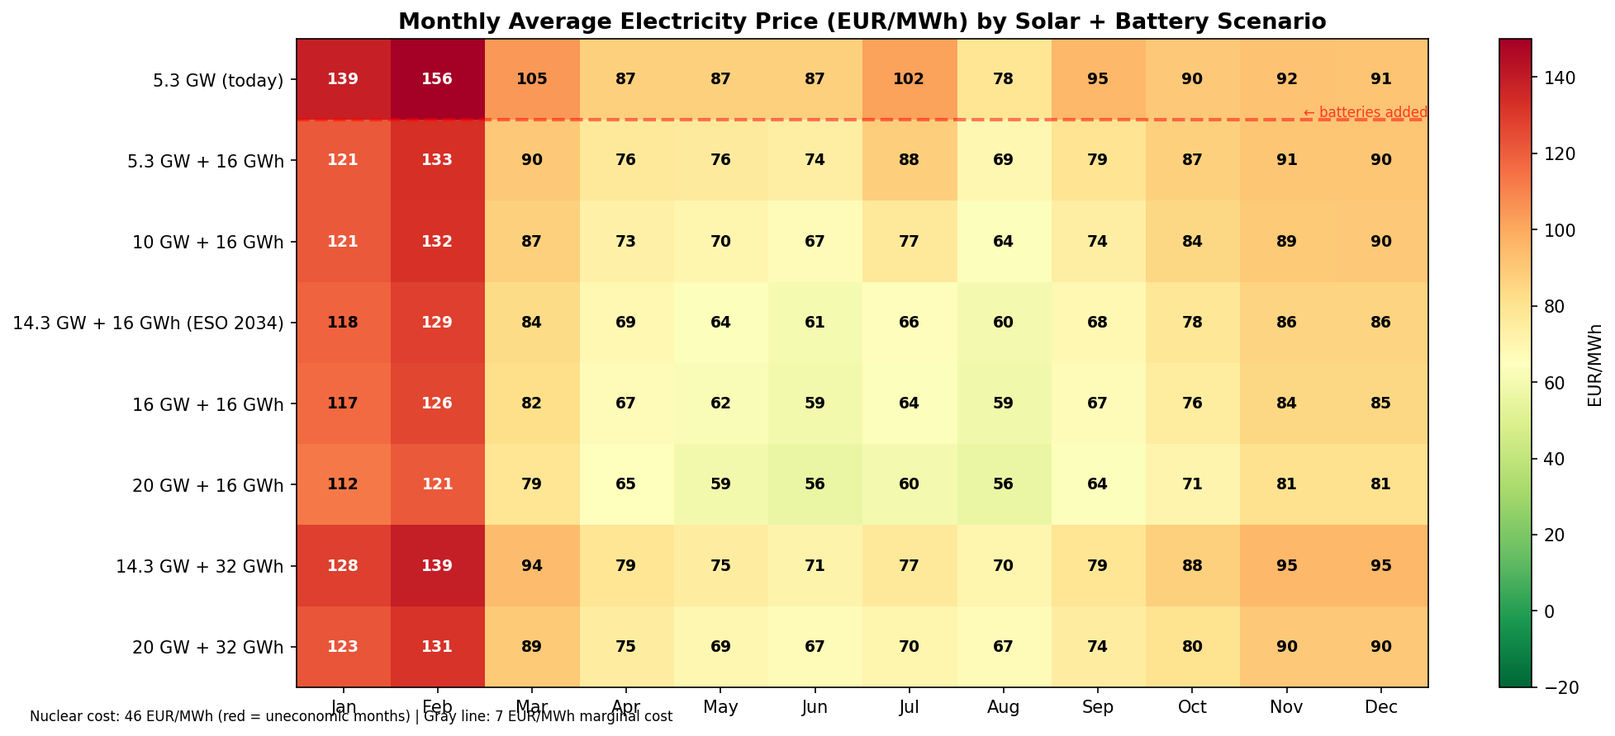
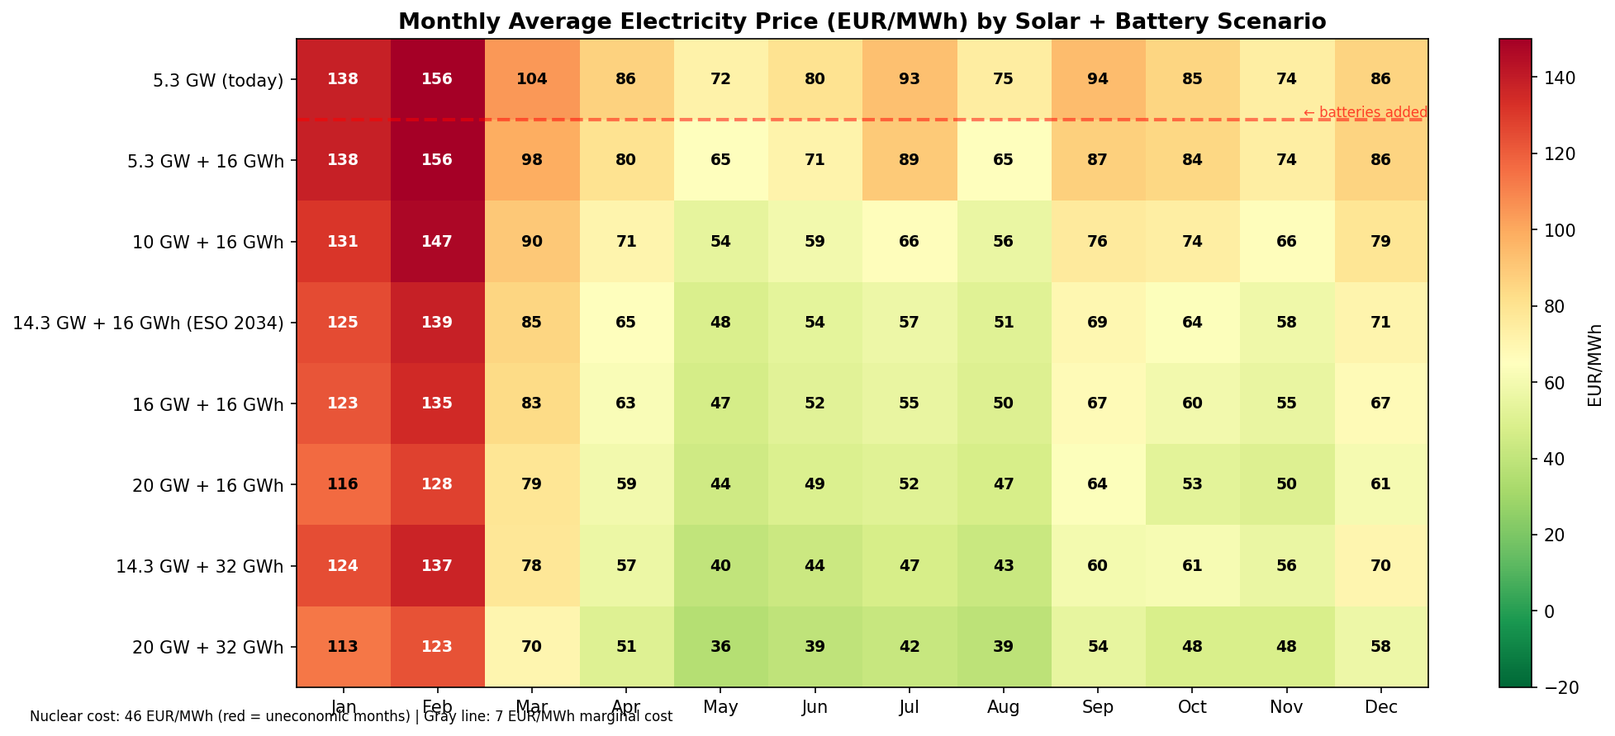
Move winter/Feb15 section to just before the two closing paragraphs

diff --git a/nuclear_article.md b/nuclear_article.md
@@ -1,6 +1,6 @@
 # Бавно, но неизбежно: Икономическата смърт на ядрената енергетика в България
 
-Атомната електроцентрала прилича на фабрика с огромен наем и почти никакви разходи за суровини. Независимо дали АЕЦ Козлодуй произвежда един мегаватчас или шестнадесет милиарда, тя пак плаща същите заплати на хилядите си служители, същите сметки за поддръжка, същите вноски за извеждане от експлоатация и същата амортизация на инвестициите в удължаване на живота си. Самото гориво — уранът — е изненадващо евтино: само няколко евро на мегаватчас.
+Атомната електроцентрала прилича на фабрика с огромен наем и почти никакви разходи за суровини. Независимо дали АЕЦ Козлодуй произвежда един мегаватчас или шестнадесет милиона, тя пак плаща същите заплати на хилядите си служители, същите сметки за поддръжка, същите вноски за извеждане от експлоатация и същата амортизация на инвестициите в удължаване на живота си. Самото гориво — уранът — е изненадващо евтино: само няколко евро на мегаватчас.
 
 Тази структура на разходите създава проста, но безпощадна икономическа правило: ядрената енергия работи само ако централата работи **много**. В бранша това се измерва с **коефициент на използване (КИ)** — какъв процент от теоретичния максимум реално се произвежда. При КИ 90% огромните постоянни разходи се разпределят върху много електроенергия и себестойността на единица е приемлива. При КИ 50% същите разходи се разпределят върху половината продукция, което приблизително удвоява цената на единица. Математиката е неумолима.
 
@@ -38,21 +38,20 @@
 
 При прогнозираните от ЕСО 14,3 ГВт слънчева мощност и 16 ГВтч батерии шест месеца в годината (от април до септември) имат средни цени под оперативната себестойност на АЕЦ от 46 EUR/MWh. Юни и август падат до 28–29 EUR/MWh. При 32 ГВтч батерии (които пазарът неизбежно ще изгради с нарастването на арбитражната възможност) юни пада до 15 EUR/MWh. Зимните месеци се задържат над 70 EUR/MWh, но лятното сриване дърпа годишната средна до 53 EUR/MWh — само 7 EUR/MWh над себестойността на АЕЦ.
 
+![Сравнение на стратегии](charts/strategy_comparison.png)
+
+
+При 20 ГВт слънчева и 32 ГВтч батерии ядрената енергетика навлиза в зоната на трайна загуба. Никоя оперативна стратегия — пълна мощност, намалена мощност, спрян реактор — не носи печалба. Загубата достига 73–105 млн. EUR в зависимост от стратегията. Дори при 20 ГВт само с 16 ГВтч батерии маржът е на ръба: +63 млн. EUR при пълна мощност, но отрицателен при спиране на един реактор за лятото.
+
+**Това е смъртна спирала — и България вече я навлиза.**
+
+Моделът е добре документиран на всеки пазар, където ВЕИ са достигнали критична маса. Слънчевата и вятърната мощност нарастват, пазарните цени падат. Приходите намаляват, а постоянните разходи остават същите. Все повече часове се сриват до нула, докато слънчевата залива мрежата. Батериите изравняват оставащия пик. Централата спира за по-дълги периоди. Производството пада, себестойността на единица расте. Регионалните ВЕИ ерозират дори зимните маржове. Износните пазари се затварят, докато съседите изграждат собствен капацитет. И тогава идва политическият избор: субсидии или затваряне.
+
+Проблемите с надеждността и слънчевия натиск се подхранват взаимно. Всяко непланирано спиране вдига разходите, а всеки ГВт слънчева мощност свива приходите. Маржът се стеснява от двете страни.
+
 **Батериите не просто прехвърлят енергия — те трайно унищожават пиковата премия.**
 
 В слънчеви дни цените падат по обяд, но се възстановяват вечер — АЕЦ продава евтино по пладне, но печели от пика. При 16 ГВтч батерии, заряждани от безплатна слънчева и разреждани вечер, тези пикови часове се таванират при пълната себестойност на въглищата (88 EUR/MWh). При 32 ГВтч батериите покриват по-голямата част от нощта, сривайки цените до цената им на цикъл (~15 EUR/MWh). Ценовата разлика се трансформира от времеви арбитраж (купи евтино по обяд, продай скъпо вечер) в технологичен арбитраж: батериите печелят от разликата в разходите между слънчевата (~0 EUR/MWh) и въглищата (~88 EUR/MWh). АЕЦ, захваната между тях, не може да продава нито от едната, нито от другата страна на тази нова разлика.
-
-**Традиционният бастион на АЕЦ е зимата. Дори той се рони.**
-
-Гръцкият и румънският вятър се конкурират пряко с българската атомна енергия през зимните месеци. В ветровити зимни дни регионалните цени са изправени пред същия натиск на свръхпредлагане, какъвто слънчевата енергия създава лятото. „Безопасният" сезон за продажби на АЕЦ се свива от двата края — слънчевата поглъща преходните месеци и лятото, регионалният вятър навлиза в зимата.
-
-**На 15 февруари 2026 г. България отчете цени близо до нула за почти целия ден — и то зимата.**
-
-![15 февруари 2026: Цени БГ](charts/feb15_2026_prices.png)
-
-България средно отчете 12,3 EUR/MWh за деня. Междувременно капацитетът на интерконекторите към съседните страни беше напълно изчерпан — България не можеше да изнесе излишъка си на никаква цена. Причината: 3 200 МВт задължително производство (АЕЦ 1 904 + лигнит ~1 100 + газова КТЦ ~310) срещу ~3 800 МВт търсене, с едва 300–470 МВт вятър отгоре.
-
-Това се случи при минимални ВЕИ. Мрежата се срина в излишък заради негъвкавостта на АЕЦ и въглищата. За сравнение: в Гърция същия ден имаше 3 400 МВт вятър, а цените се задържаха на 38–142 EUR/MWh. Гърция разполага с гъвкав газов парк, който намалява мощността, когато ВЕИ нарастват. България — не.
 
 **Износният пазар, който някога поглъщаше излишъка на България, вече го няма — а самата централа е под натиск отвътре.**
 
@@ -66,15 +65,19 @@
 
 Спирането на реактор за лятото не помага — намалява приходите повече, отколкото пести от променливите разходи, защото пределната цена на производство (7 EUR/MWh) е далеч под дори потиснатите летни цени. Всяка стратегия за ограничаване носи по-малко от работата на пълна мощност.
 
-![Сравнение на стратегии](charts/strategy_comparison.png)
 
-При 20 ГВт слънчева и 32 ГВтч батерии ядрената енергетика навлиза в зоната на трайна загуба. Никоя оперативна стратегия — пълна мощност, намалена мощност, спрян реактор — не носи печалба. Загубата достига 73–105 млн. EUR в зависимост от стратегията. Дори при 20 ГВт само с 16 ГВтч батерии маржът е на ръба: +63 млн. EUR при пълна мощност, но отрицателен при спиране на един реактор за лятото.
+**Традиционният бастион на АЕЦ е зимата. Дори той се рони.**
 
-**Това е смъртна спирала — и България вече я навлиза.**
+Гръцкият и румънският вятър се конкурират пряко с българската атомна енергия през зимните месеци. В ветровити зимни дни регионалните цени са изправени пред същия натиск на свръхпредлагане, какъвто слънчевата енергия създава лятото. „Безопасният" сезон за продажби на АЕЦ се свива от двата края — слънчевата поглъща преходните месеци и лятото, регионалният вятър навлиза в зимата.
 
-Моделът е добре документиран на всеки пазар, където ВЕИ са достигнали критична маса. Слънчевата и вятърната мощност нарастват, пазарните цени падат. Приходите намаляват, а постоянните разходи остават същите. Все повече часове се сриват до нула, докато слънчевата залива мрежата. Батериите изравняват оставащия пик. Централата спира за по-дълги периоди. Производството пада, себестойността на единица расте. Регионалните ВЕИ ерозират дори зимните маржове. Износните пазари се затварят, докато съседите изграждат собствен капацитет. И тогава идва политическият избор: субсидии или затваряне.
+**На 15 февруари 2026 г. България отчете цени близо до нула за почти целия ден — и то зимата.**
 
-Проблемите с надеждността и слънчевия натиск се подхранват взаимно. Всяко непланирано спиране вдига разходите, а всеки ГВт слънчева мощност свива приходите. Маржът се стеснява от двете страни.
+![15 февруари 2026: Цени БГ](charts/feb15_2026_prices.png)
+
+България средно отчете 12,3 EUR/MWh за деня. Междувременно капацитетът на интерконекторите към съседните страни беше напълно изчерпан — България не можеше да изнесе излишъка си на никаква цена. Причината: 3 200 МВт задължително производство (АЕЦ 1 904 + лигнит ~1 100 + газова КТЦ ~310) срещу ~3 800 МВт търсене, с едва 300–470 МВт вятър отгоре.
+
+Това се случи при минимални ВЕИ. Мрежата се срина в излишък заради негъвкавостта на АЕЦ и въглищата. За сравнение: в Гърция същия ден имаше 3 400 МВт вятър, а цените се задържаха на 38–142 EUR/MWh. Гърция разполага с гъвкав газов парк, който намалява мощността, когато ВЕИ нарастват. България — не.
+
 
 **На този фон България преследва планове за изграждане на още два реактора.**
 
@@ -92,7 +95,7 @@
 
 **АЕЦ Козлодуй не е в непосредствена опасност. Но траекторията е недвусмислена.**
 
-Днес, при 5,3 ГВт слънчева и без батерии, средната пазарна цена е 101 EUR/MWh и АЕЦ печели комфортните 1 007 млн. EUR. Добавете 16 ГВтч батерии — без никаква нова слънчева — и тази печалба се преполовява до 518 млн. EUR, тъй като батериите таванират вечерния пик. При 10 ГВт слънчева с батерии печалбата пада до 308 млн. EUR. При прогнозираните от ЕСО 14,3 ГВт с 16 ГВтч батерии печалбата се свива до 182 млн. EUR — комфортно на хартия, но марж от 25% върху база от разходи 735 млн. EUR не оставя пространство за грешка. При 32 ГВтч батерии АЕЦ едва излиза на нула с 82 млн. EUR. При 20 ГВт + 32 ГВтч навлиза в трайна загуба.
+Днес, при 5,8 ГВт слънчева и без батерии, средната пазарна цена е 101 EUR/MWh и АЕЦ печели комфортните 1 007 млн. EUR. Добавете 16 ГВтч батерии — без никаква нова слънчева — и тази печалба се преполовява до 518 млн. EUR, тъй като батериите таванират вечерния пик. При 10 ГВт слънчева с батерии печалбата пада до 308 млн. EUR. При прогнозираните от ЕСО 14,3 ГВт с 16 ГВтч батерии печалбата се свива до 182 млн. EUR — комфортно на хартия, но марж от 25% върху база от разходи 735 млн. EUR не оставя пространство за грешка. При 32 ГВтч батерии АЕЦ едва излиза на нула с 82 млн. EUR. При 20 ГВт + 32 ГВтч навлиза в трайна загуба.
 
 Силите, движещи това — внедряване на слънчева енергия, акумулаторно съхранение, регионален вятър, насищане на износните пазари — се ускоряват. Нито една от тях не е обратима. Нито една не може да бъде спряна. Дори ако България замрази цялото вътрешно строителство на ВЕИ утре, гръцките вятърни паркове, румънските слънчеви паркове и турските допълнителни мощности ще продължат да потискат регионалните цени на електроенергията. Балканският енергиен пазар се интегрира. България не може да се огради от слънчево-вятърното цунами, заливащо Югоизточна Европа. Електричеството ще тече през интерконекторите, цените ще се изравнят и икономиката на негъвкавото базово производство ще продължи да се влошава.
 

diff --git a/analysis_tables.md b/analysis_tables.md
@@ -4,34 +4,39 @@ Supporting data for the nuclear economics article. All modeled on 2025 ENTSOE ho
 
 ## Price Compression Model
 
-Supply-demand balance model using 2025 actual market data:
+Merit-order model using 2025 actual market data:
 - Solar generation scaled from 5.3 GW baseline
-- Coal displaced first by extra solar before merit order compression
 - Merit order slope: 0.018 EUR/MWh per MW (2025 regression, R²=0.29)
+- Solar curtailment: prices floor at 0 EUR/MWh (operators curtail solar at negative prices)
+- Battery effect: daily energy-balance dispatch — batteries charge from zero-price solar hours, discharge into highest-price hours. When battery energy covers the full non-solar gap, prices drop to battery cycling cost (~15 EUR/MWh). Remaining hours capped at coal full cost (88 EUR/MWh).
 - Export capacity: ~2,800 MW total interconnector
-- Battery effect: structural peak cap at coal full cost (88 EUR/MWh) for 16+ GWh
+- 2025 caveat: Unit 6 offline May-Aug → prices ~10% higher than normal. All numbers are conservative.
 
 ### Monthly Average Prices (EUR/MWh) by Scenario
 
 | Scenario | Jan | Feb | Mar | Apr | May | Jun | Jul | Aug | Sep | Oct | Nov | Dec | Year |
 |---|---:|---:|---:|---:|---:|---:|---:|---:|---:|---:|---:|---:|---:|
-| 5.3 GW (today) | 134 | 150 | 95 | 73 | 78 | 68 | 83 | 64 | 81 | 81 | 90 | 89 | 90 |
-| 5.3 GW + 16 GWh | 84 | 86 | 66 | 58 | 60 | 52 | 63 | 56 | 59 | 74 | 84 | 83 | 69 |
-| 10 GW + 16 GWh | 78 | 79 | 59 | 50 | 50 | 39 | 46 | 44 | 49 | 65 | 78 | 76 | 59 |
-| **14.3 GW + 16 GWh** | **73** | **72** | **49** | **37** | **38** | **19** | **20** | **27** | **33** | **55** | **72** | **70** | **47** |
-| 16 GW + 16 GWh | 71 | 68 | 44 | 32 | 32 | 10 | 9 | 20 | 25 | 50 | 70 | 67 | 42 |
-| 20 GW + 16 GWh | 65 | 60 | 31 | 18 | 18 | -13 | -17 | 2 | 7 | 39 | 63 | 60 | 28 |
+| 5.3 GW (today, no batt.) | 139 | 156 | 105 | 87 | 87 | 87 | 102 | 78 | 95 | 90 | 92 | 91 | 101 |
+| 5.3 GW + 16 GWh | 86 | 87 | 71 | 57 | 60 | 58 | 76 | 57 | 63 | 82 | 85 | 85 | 72 |
+| 10 GW + 16 GWh | 84 | 85 | 58 | 47 | 47 | 35 | 53 | 35 | 43 | 75 | 80 | 80 | 60 |
+| **14.3 GW + 16 GWh** | **82** | **82** | **55** | **40** | **38** | **28** | **38** | **29** | **35** | **64** | **73** | **73** | **53** |
+| 16 GW + 16 GWh | 80 | 80 | 53 | 38 | 36 | 27 | 36 | 27 | 33 | 58 | 70 | 71 | 51 |
+| 20 GW + 16 GWh | 77 | 76 | 50 | 36 | 32 | 24 | 32 | 24 | 29 | 48 | 63 | 62 | 46 |
+| 14.3 GW + 32 GWh | 81 | 81 | 49 | 31 | 33 | 15 | 23 | 16 | 26 | 64 | 73 | 73 | 47 |
+| 20 GW + 32 GWh | 75 | 73 | 41 | 25 | 23 | 10 | 15 | 12 | 19 | 45 | 62 | 60 | 38 |
 
-### Hours Below Key Thresholds
+### Months Below Nuclear Average Cost (46 EUR/MWh)
 
-| Scenario | Hours <0 EUR | Hours <7 EUR | Hours <46 EUR | Uneconomic months |
-|---|---:|---:|---:|---|
-| 5.3 GW (today) | 112 | 454 | 1,893 | — |
-| 5.3 GW + 16 GWh | 14 | 179 | 1,399 | — |
-| 10 GW + 16 GWh | 210 | 644 | 2,253 | Jun, Jul, Aug |
-| **14.3 GW + 16 GWh** | **1,008** | **1,385** | **3,109** | **Apr–Sep** |
-| 16 GW + 16 GWh | 1,270 | 1,623 | 3,376 | Mar–Sep |
-| 20 GW + 16 GWh | 1,784 | 2,062 | 3,921 | Mar–Oct |
+| Scenario | Uneconomic months |
+|---|---|
+| 5.3 GW (today) | — |
+| 5.3 GW + 16 GWh | — |
+| 10 GW + 16 GWh | Jun, Aug |
+| **14.3 GW + 16 GWh** | **Apr–Sep** |
+| 16 GW + 16 GWh | Apr–Sep |
+| 20 GW + 16 GWh | Apr–Sep |
+| 14.3 GW + 32 GWh | Apr–Sep |
+| 20 GW + 32 GWh | Mar–Sep |
 
 ## Nuclear Annual P&L by Operating Strategy
 
@@ -41,59 +46,39 @@ Fixed cost: 617 M EUR/year. Variable cost: 6.8 EUR/MWh. Total OPEX: 723 M EUR/ye
 
 | Strategy | Revenue (M€) | Cost (M€) | Profit (M€) | CF | Rev/MWh |
 |---|---:|---:|---:|---:|---:|
-| 2×1000 MW all year | 816 | 735 | +82 | 99% | 47.2 |
-| Reduced 1400 MW Jun-Aug | 774 | 730 | +44 | 90% | 49.4 |
-| Reduced 1400 MW May-Sep | 747 | 727 | +20 | 85% | 50.4 |
-| 1 reactor off Jun-Aug | 735 | 724 | +11 | 87% | 48.5 |
-| 1 reactor off May-Sep | 691 | 719 | -28 | 79% | 50.2 |
-| Combo (1 off Jun-Aug, reduced shoulder) | 718 | 723 | -5 | 84% | 49.0 |
+| 2×1000 MW all year | 916 | 735 | +182 | 99% | 52.9 |
+| Reduced 1400 MW Jun-Aug | 876 | 726 | +150 | 90% | 54.7 |
+| Reduced 1400 MW May-Sep | 844 | 720 | +124 | 85% | 55.7 |
+| 1 reactor off Jun-Aug | 848 | 720 | +128 | 87% | 56.0 |
+| 1 reactor off May-Sep | 796 | 710 | +86 | 79% | 58.0 |
+| Combo (1 off Jun-Aug, reduced shoulder) | 800 | 711 | +89 | 84% | 57.7 |
 
-### 16 GW Solar + 16 GWh Batteries
+### 14.3 GW Solar + 32 GWh Batteries
 
 | Strategy | Revenue (M€) | Cost (M€) | Profit (M€) | CF | Rev/MWh |
 |---|---:|---:|---:|---:|---:|
-| 2×1000 MW all year | 721 | 735 | -14 | 99% | 41.6 |
-| Reduced 1400 MW Jun-Aug | 688 | 730 | -42 | 90% | 43.8 |
-| 1 reactor off Jun-Aug | 660 | 724 | -64 | 87% | 43.6 |
-| 1 reactor off May-Sep | 623 | 719 | -96 | 79% | 45.2 |
+| 2×1000 MW all year | 816 | 735 | +82 | 99% | 47.1 |
+| Reduced 1400 MW Jun-Aug | 786 | 726 | +60 | 90% | 49.1 |
+| 1 reactor off Jun-Aug | 767 | 720 | +47 | 87% | 50.6 |
+| 1 reactor off May-Sep | 721 | 710 | +11 | 79% | 52.6 |
 
 ### 20 GW Solar + 16 GWh Batteries
 
 | Strategy | Revenue (M€) | Cost (M€) | Profit (M€) | CF | Rev/MWh |
 |---|---:|---:|---:|---:|---:|
-| 2×1000 MW all year | 482 | 735 | -253 | 99% | 27.8 |
-| 1 reactor off Jun-Aug | 502 | 720 | -218 | 87% | 33.1 |
-| 1 reactor off Apr-Sep | 468 | 706 | -238 | 75% | 35.8 |
+| 2×1000 MW all year | 797 | 735 | +63 | 99% | 46.1 |
+| Reduced 1400 MW Jun-Aug | 763 | 726 | +37 | 90% | 47.6 |
+| 1 reactor off Jun-Aug | 740 | 720 | +20 | 87% | 48.8 |
+| 1 reactor off May-Sep | 696 | 710 | -15 | 79% | 50.7 |
 
-## Weekend Summer Day Profile (Jun-Aug average)
+### 20 GW Solar + 32 GWh Batteries
 
-Average hourly price on weekend summer days (EUR/MWh):
-
-| Hour | 5.3 GW | 10 GW | 14.3 GW | 20 GW |
-|---:|---:|---:|---:|---:|
-| 0 | 85 | 85 | 85 | 85 |
-| 4 | 52 | 33 | 19 | 12 |
-| 6 | 13 | -6 | -48 | -114 |
-| 8 | 4 | -11 | -46 | -115 |
-| 10 | 4 | -2 | -19 | -72 |
-| 12 | 2 | 1 | -13 | -46 |
-| 14 | 23 | 6 | -4 | -33 |
-| 16 | 108 | 90 | 63 | 43 |
-| 18 | 118 | 95 | 79 | 64 |
-| 20 | 120 | 117 | 113 | 107 |
-| 22 | 94 | 94 | 94 | 94 |
-
-## Nuclear Daily P&L — Weekend Summer Day
-
-Revenue per MW per day vs cost of 1,104 EUR/MW/day (= 46 EUR/MWh × 24h):
-
-| Solar | Revenue | Profit/Loss | Profitable hours |
-|---|---:|---:|---:|
-| 5.3 GW (today) | 1,368 | +264 | 14/24 |
-| 10 GW | 1,106 | +2 | 12/24 |
-| 14.3 GW (no batteries) | 776 | -328 | 12/24 |
-| 14.3 GW + peak cap | 724 | -380 | 12/24 |
-| 20 GW | 180 | -924 | 11/24 |
+| Strategy | Revenue (M€) | Cost (M€) | Profit (M€) | CF | Rev/MWh |
+|---|---:|---:|---:|---:|---:|
+| 2×1000 MW all year | 662 | 735 | -73 | 99% | 38.2 |
+| Reduced 1400 MW Jun-Aug | 646 | 726 | -80 | 90% | 40.3 |
+| 1 reactor off Jun-Aug | 635 | 720 | -85 | 87% | 41.9 |
+| 1 reactor off May-Sep | 605 | 710 | -105 | 79% | 44.1 |
 
 ## Cost vs Capacity Factor
 
